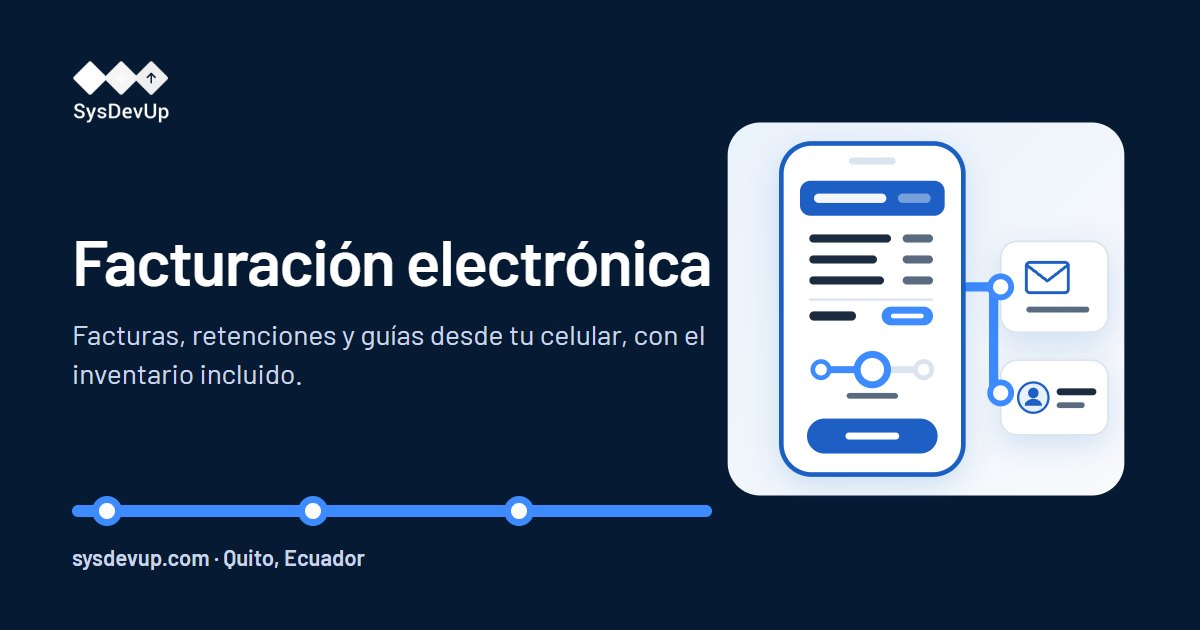
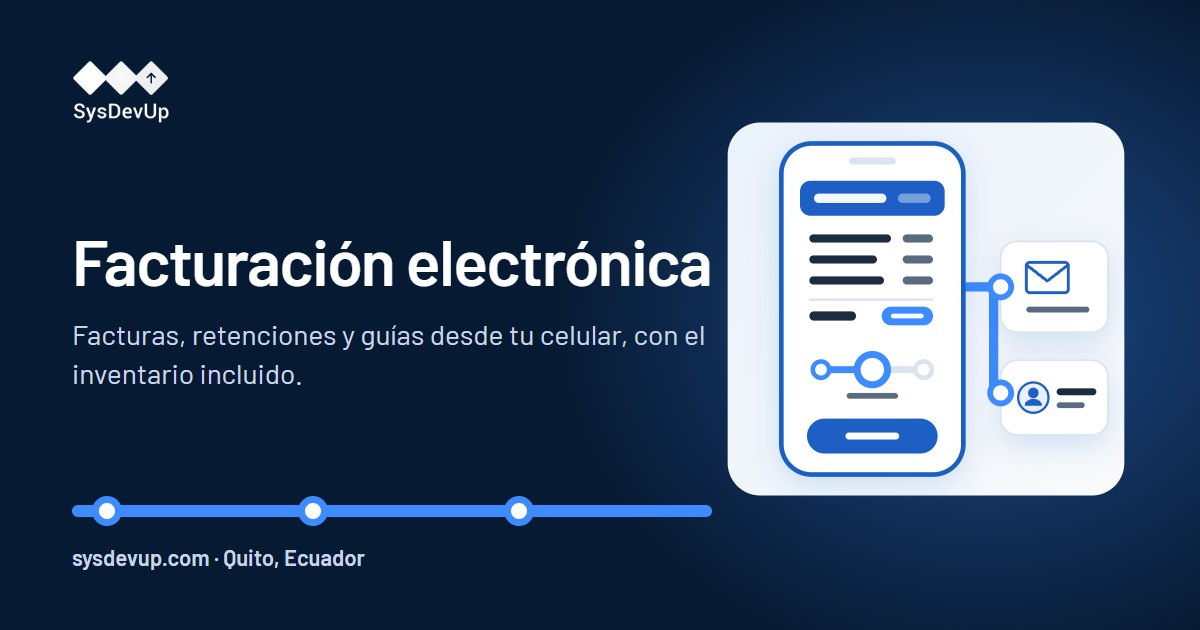
Rediseno: resplandor del color de cada producto en su primera pantalla y en su imagen para compartir
El azul marino se mantiene para que el sitio siga siendo uno; detras del dibujo aparece el color de la linea del producto (en celular, bajo el dibujo). Elegido por el usuario entre tres opciones.

Changed region(s): [[0.6167, 0.0905, 1.0, 0.9349], [0.555, 0.3016, 0.6167, 0.7238]]

diff --git a/css/sitio.css b/css/sitio.css
@@ -213,6 +213,7 @@ a:hover{text-decoration-thickness:2px}
 .migas [aria-current]{display:inline-flex;align-items:center}
 .migas [aria-current]::before{border-color:var(--c)}
 .migas span[aria-hidden]{flex:none;width:44px;height:6px;border-radius:6px;background:linear-gradient(90deg,var(--fac),var(--c));font-size:0;color:transparent}
+.portada-producto{background:var(--marino);background:radial-gradient(55% 75% at 82% 38%,color-mix(in oklab,var(--c) 42%,transparent),transparent 72%),var(--marino)}
 .portada-producto h1{font-size:clamp(2.2rem,4.2vw,3.3rem)}
 .dibujo-producto{width:100%;max-width:420px;height:auto;justify-self:center}
 
@@ -302,6 +303,7 @@ a:hover{text-decoration-thickness:2px}
   .portada-grilla{grid-template-columns:1fr}
   .mapa{max-width:520px}
   .dibujo-producto{max-width:280px;justify-self:start}
+  .portada-producto{background:var(--marino);background:radial-gradient(90% 45% at 30% 62%,color-mix(in oklab,var(--c) 38%,transparent),transparent 72%),var(--marino)}
   .estaciones{grid-template-columns:1fr}
   .modulo-principal .modulo-dibujo{grid-row:1}
   .modulo-principal{position:relative;top:auto}
